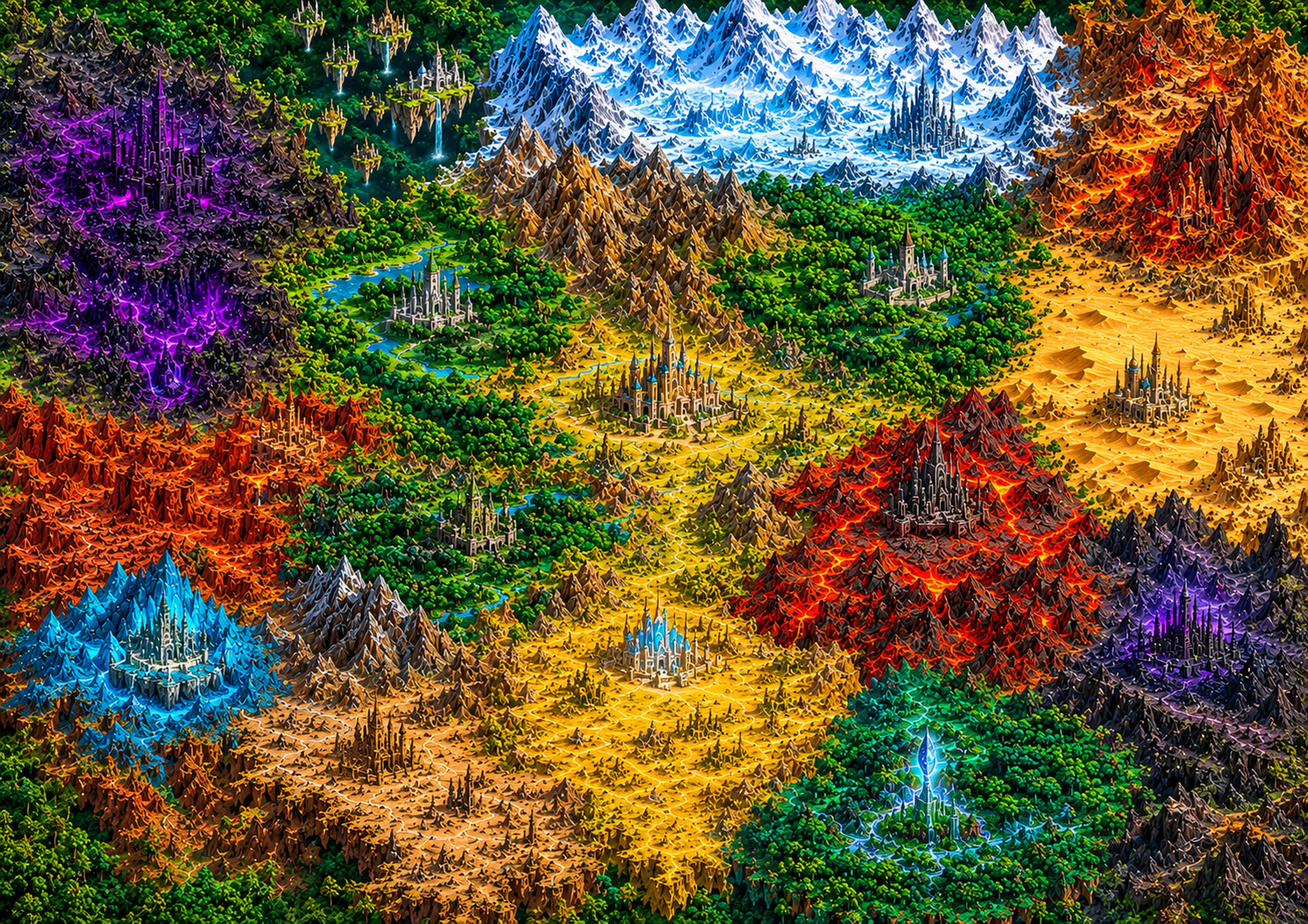
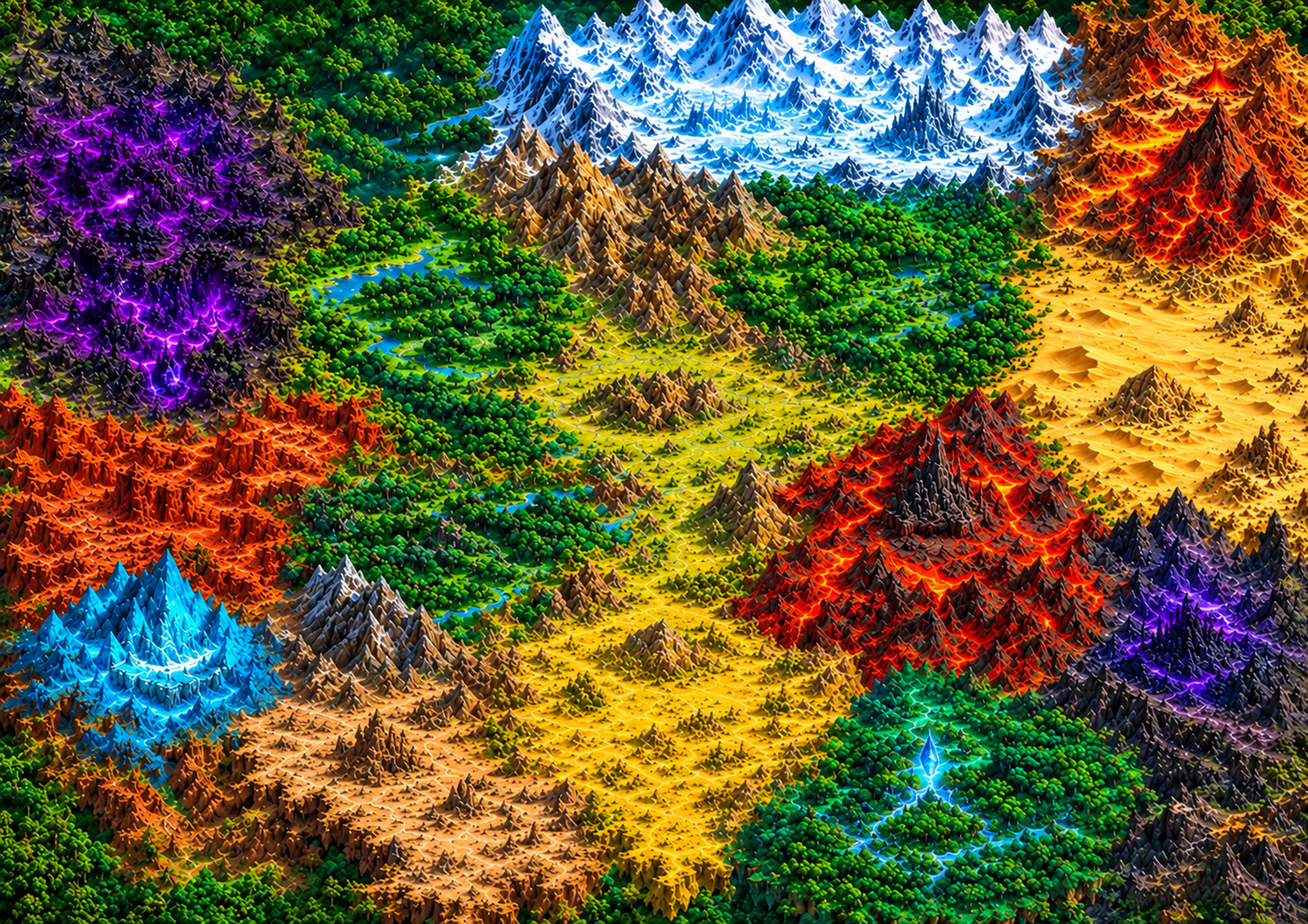
Reemplaza el terreno del mapa por la nueva imagen

diff --git a/index.html b/index.html
@@ -5,7 +5,7 @@
     <meta name="viewport" content="width=device-width, initial-scale=1.0" />
     <title>WoW Imperial</title>
     <meta name="description" content="WoW Imperial: estrategia por razas. Horda, Alianza y Enanos." />
-    <link rel="stylesheet" href="./styles.css?v=20261030a" />
+    <link rel="stylesheet" href="./styles.css?v=20261030b" />
     <link rel="preconnect" href="https://fonts.googleapis.com" />
     <link rel="preconnect" href="https://fonts.gstatic.com" crossorigin />
     <link
@@ -15,6 +15,6 @@
   </head>
   <body>
     <div id="app"></div>
-    <script src="./app.js?v=20261030a"></script>
+    <script src="./app.js?v=20261030b"></script>
   </body>
 </html>

diff --git a/app.js b/app.js
@@ -3167,7 +3167,7 @@
       );
     }).join("");
 
-    var layer = '<img class="map-world-bg" src="./assets/world-terrain.jpg" alt="" draggable="false" />' +
+    var layer = '<img class="map-world-bg" src="./assets/world-terrain.jpg?v=20261030b" alt="" draggable="false" />' +
       zoneOutlines + zoneLocks + roads +
       expeditionOverlay(null) + zoneBadges + castles
       .map(function (castle) {
